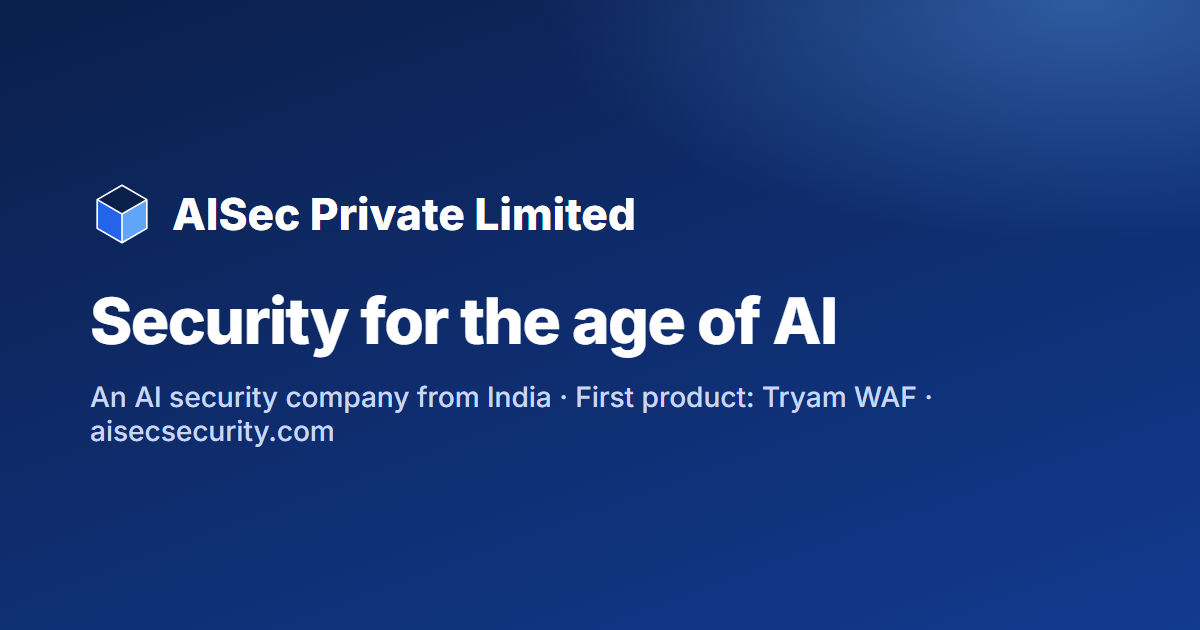
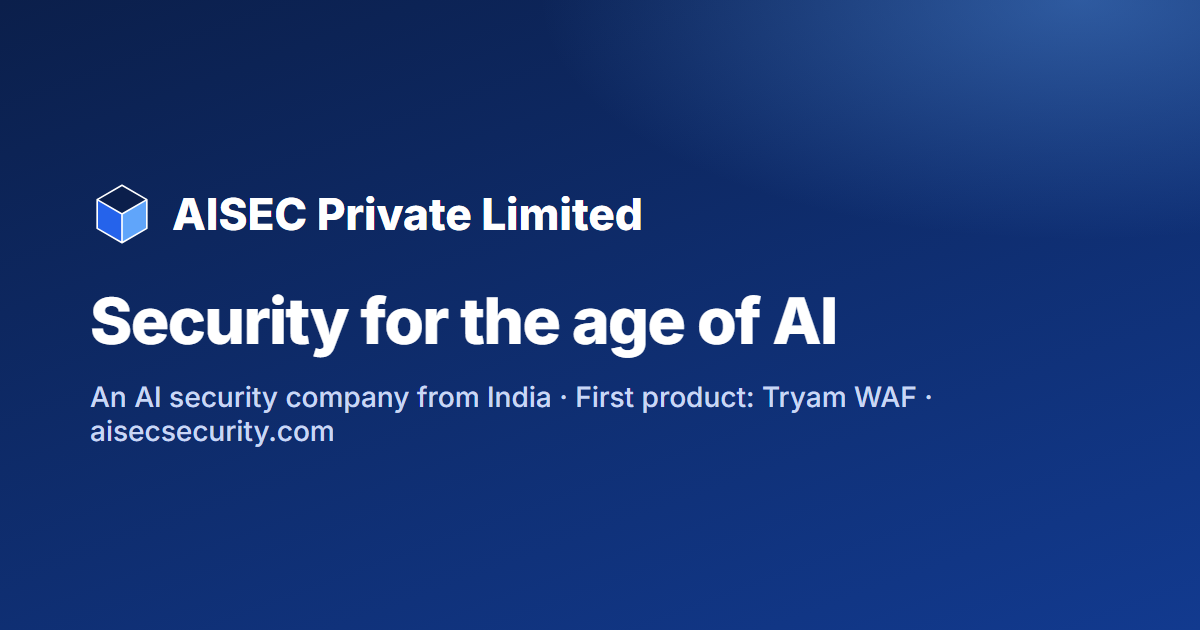
Write the company name as AISEC

Changed region(s): [[0.185, 0.3016, 0.555, 0.3921]]

diff --git a/index.html b/index.html
@@ -3,11 +3,11 @@
 <head>
 <meta charset="utf-8">
 <meta name="viewport" content="width=device-width, initial-scale=1">
-<title>AISec Private Limited: an AI security company from India</title>
-<meta name="description" content="AISec Private Limited is an Indian AI security company. We build products for the security challenges AI brings to websites, APIs and AI applications. Our first product is Tryam WAF.">
+<title>AISEC Private Limited: an AI security company from India</title>
+<meta name="description" content="AISEC Private Limited is an Indian AI security company. We build products for the security challenges AI brings to websites, APIs and AI applications. Our first product is Tryam WAF.">
 <link rel="canonical" href="https://aisecsecurity.com/">
-<meta property="og:site_name" content="AISec Private Limited">
-<meta property="og:title" content="AISec Private Limited: an AI security company from India">
+<meta property="og:site_name" content="AISEC Private Limited">
+<meta property="og:title" content="AISEC Private Limited: an AI security company from India">
 <meta property="og:description" content="We build products for the security challenges AI brings to websites, APIs and AI applications. Our first product is Tryam WAF.">
 <meta property="og:type" content="website">
 <meta property="og:url" content="https://aisecsecurity.com/">
@@ -19,13 +19,13 @@
 <link rel="preconnect" href="https://fonts.gstatic.com" crossorigin>
 <link href="https://fonts.googleapis.com/css2?family=Inter:wght@400;500;600;700;800&display=swap" rel="stylesheet">
 <link rel="stylesheet" href="/styles.css">
-<script type="application/ld+json">{"@context":"https://schema.org","@type":"Organization","@id":"https://aisecsecurity.com/#organization","name":"AISec Private Limited","legalName":"AISec Private Limited","url":"https://aisecsecurity.com/","logo":"https://aisecsecurity.com/img/logo-mark.svg","description":"AISec Private Limited is an Indian AI security company. It builds products for the security challenges AI brings to websites, APIs and AI applications. Its first product is Tryam WAF, a managed web application firewall.","knowsAbout":["AI security","Web application security","API security","Prompt injection","Bot management","Web application firewall"],"identifier":{"@type":"PropertyValue","propertyID":"CIN","value":"U62011UW2026PTC260693"},"foundingDate":"2026","telephone":"+918287593670","email":"support@tryamaisec.com","address":{"@type":"PostalAddress","streetAddress":"13, Atta Mazra, Shamli, Kandhala Rural Shamli","addressLocality":"Kandhala","addressRegion":"Uttar Pradesh","postalCode":"247775","addressCountry":"IN"},"brand":{"@type":"Brand","name":"Tryam","url":"https://tryamaisec.com/"},"sameAs":["https://tryamaisec.com/","https://www.youtube.com/@tryamaisec"]}</script>
+<script type="application/ld+json">{"@context":"https://schema.org","@type":"Organization","@id":"https://aisecsecurity.com/#organization","name":"AISEC Private Limited","legalName":"AISEC Private Limited","url":"https://aisecsecurity.com/","logo":"https://aisecsecurity.com/img/logo-mark.svg","description":"AISEC Private Limited is an Indian AI security company. It builds products for the security challenges AI brings to websites, APIs and AI applications. Its first product is Tryam WAF, a managed web application firewall.","knowsAbout":["AI security","Web application security","API security","Prompt injection","Bot management","Web application firewall"],"identifier":{"@type":"PropertyValue","propertyID":"CIN","value":"U62011UW2026PTC260693"},"foundingDate":"2026","telephone":"+918287593670","email":"support@tryamaisec.com","address":{"@type":"PostalAddress","streetAddress":"13, Atta Mazra, Shamli, Kandhala Rural Shamli","addressLocality":"Kandhala","addressRegion":"Uttar Pradesh","postalCode":"247775","addressCountry":"IN"},"brand":{"@type":"Brand","name":"Tryam","url":"https://tryamaisec.com/"},"sameAs":["https://tryamaisec.com/","https://www.youtube.com/@tryamaisec"]}</script>
 </head>
 <body>
 <a class="skip" href="#main">Skip to content</a>
 <header class="top" id="top">
   <div class="wrap top-in">
-    <a class="brand" href="/" aria-label="AISec Private Limited, home"><img src="/img/logo-mark.svg" alt="" width="34" height="34"><span>AISec<small>AI security company</small></span></a>
+    <a class="brand" href="/" aria-label="AISEC Private Limited, home"><img src="/img/logo-mark.svg" alt="" width="34" height="34"><span>AISEC<small>AI security company</small></span></a>
     <input type="checkbox" id="nav-t" class="nav-t" aria-label="Open menu">
     <label for="nav-t" class="nav-b" aria-hidden="true"><span></span><span></span><span></span></label>
     <nav aria-label="Main">
@@ -45,7 +45,7 @@
     <div class="hero-copy">
       <p class="eyebrow">AI security company · Made in India</p>
       <h1>Security for the age of AI</h1>
-      <p class="lead">AI is changing how applications are built and how they are attacked. <strong>AISec</strong> builds security products for the challenges AI brings to websites, APIs and AI applications, starting with <strong>Tryam WAF</strong>.</p>
+      <p class="lead">AI is changing how applications are built and how they are attacked. <strong>AISEC</strong> builds security products for the challenges AI brings to websites, APIs and AI applications, starting with <strong>Tryam WAF</strong>.</p>
       <div class="cta">
         <a class="btn" href="#products">Our first product: Tryam WAF</a>
         <a class="btn ghost" href="#contact">Talk to us</a>
@@ -61,7 +61,7 @@
         <div class="flow">
           <div class="node in">Users, bots and AI agents</div>
           <div class="arrow"></div>
-          <div class="node core"><img src="/img/logo-mark.svg" alt="" width="40" height="40"><b>AISec protection</b><span>for web, APIs and AI apps</span></div>
+          <div class="node core"><img src="/img/logo-mark.svg" alt="" width="40" height="40"><b>AISEC protection</b><span>for web, APIs and AI apps</span></div>
           <div class="arrow ok"></div>
           <div class="node out">Your website, API or AI app</div>
         </div>
@@ -102,7 +102,7 @@
   <div class="wrap">
     <div class="head">
       <p class="eyebrow">Products</p>
-      <h2>Every AISec product answers an AI-era security challenge</h2>
+      <h2>Every AISEC product answers an AI-era security challenge</h2>
       <p class="sub">We build focused products, each solving one real problem that AI has created or made worse. Our first product protects the place where most of these attacks arrive: the website, API or AI application itself.</p>
     </div>
 
@@ -170,14 +170,14 @@
   <div class="wrap two">
     <div>
       <p class="eyebrow">Company</p>
-      <h2>About AISec Private Limited</h2>
+      <h2>About AISEC Private Limited</h2>
       <div class="prose">
-        <p>AISec Private Limited is an AI security company, incorporated in India in 2026. Every product we build addresses a security challenge that AI has created or made worse. Our first product is Tryam WAF, a managed web application firewall with protection for websites, APIs and AI applications.</p>
+        <p>AISEC Private Limited is an AI security company, incorporated in India in 2026. Every product we build addresses a security challenge that AI has created or made worse. Our first product is Tryam WAF, a managed web application firewall with protection for websites, APIs and AI applications.</p>
         <p>Our mission is to make AI-era security simple and accessible for every Indian business, from a single website to an agency looking after hundreds.</p>
       </div>
     </div>
     <dl class="facts">
-      <div><dt>Legal name</dt><dd>AISec Private Limited</dd></div>
+      <div><dt>Legal name</dt><dd>AISEC Private Limited</dd></div>
       <div><dt>Focus</dt><dd>AI security products and services</dd></div>
       <div><dt>Corporate Identity Number (CIN)</dt><dd class="mono">U62011UW2026PTC260693</dd></div>
       <div><dt>Incorporated</dt><dd>2026, India</dd></div>
@@ -208,7 +208,7 @@
 
 <footer class="foot">
   <div class="wrap foot-in">
-    <div class="foot-brand"><img src="/img/logo-mark.svg" alt="" width="28" height="28"><div><b>AISec Private Limited</b><span>AI security company · CIN U62011UW2026PTC260693</span></div></div>
+    <div class="foot-brand"><img src="/img/logo-mark.svg" alt="" width="28" height="28"><div><b>AISEC Private Limited</b><span>AI security company · CIN U62011UW2026PTC260693</span></div></div>
     <nav aria-label="Footer">
       <a href="https://tryamaisec.com/">Tryam WAF</a>
       <a href="https://tryamaisec.com/privacy">Privacy</a>
@@ -216,7 +216,7 @@
       <a href="https://tryamaisec.com/refunds">Refunds</a>
       <a href="https://www.youtube.com/@tryamaisec" rel="noopener">YouTube</a>
     </nav>
-    <p class="legal">© 2026 AISec Private Limited. Registered office: 13, Atta Mazra, Shamli, Kandhala Rural Shamli, Kandhala, Uttar Pradesh 247775, India.</p>
+    <p class="legal">© 2026 AISEC Private Limited. Registered office: 13, Atta Mazra, Shamli, Kandhala Rural Shamli, Kandhala, Uttar Pradesh 247775, India.</p>
   </div>
 </footer>
 <script>document.querySelectorAll('.top nav a').forEach(a=>a.addEventListener('click',()=>{document.getElementById('nav-t').checked=false}))</script>

diff --git a/404.html b/404.html
@@ -1,5 +1,5 @@
 <!doctype html>
 <html lang="en-IN">
-<head><meta charset="utf-8"><meta name="viewport" content="width=device-width, initial-scale=1"><title>Page not found - AISec Private Limited</title><meta name="robots" content="noindex"><link rel="icon" type="image/svg+xml" href="/img/favicon.svg"><link href="https://fonts.googleapis.com/css2?family=Inter:wght@400;600;800&display=swap" rel="stylesheet"><link rel="stylesheet" href="/styles.css"></head>
+<head><meta charset="utf-8"><meta name="viewport" content="width=device-width, initial-scale=1"><title>Page not found - AISEC Private Limited</title><meta name="robots" content="noindex"><link rel="icon" type="image/svg+xml" href="/img/favicon.svg"><link href="https://fonts.googleapis.com/css2?family=Inter:wght@400;600;800&display=swap" rel="stylesheet"><link rel="stylesheet" href="/styles.css"></head>
 <body><main class="hero" style="min-height:100vh;display:grid;place-items:center;text-align:center"><div class="wrap"><img src="/img/logo-mark.svg" alt="" width="56" height="56" style="margin:0 auto 20px"><h1>Page not found</h1><p class="lead" style="margin:0 auto 28px">The page you asked for does not exist.</p><a class="btn" href="/">Go to the home page</a></div></main></body>
 </html>

diff --git a/README.md b/README.md
@@ -1,5 +1,5 @@
 # aisecsecurity.com
 
-Company website of AISec Private Limited, served by GitHub Pages at https://aisecsecurity.com.
+Company website of AISEC Private Limited, served by GitHub Pages at https://aisecsecurity.com.
 
 Plain HTML and CSS, no build step: edit `index.html` or `styles.css` and push to `main`.
